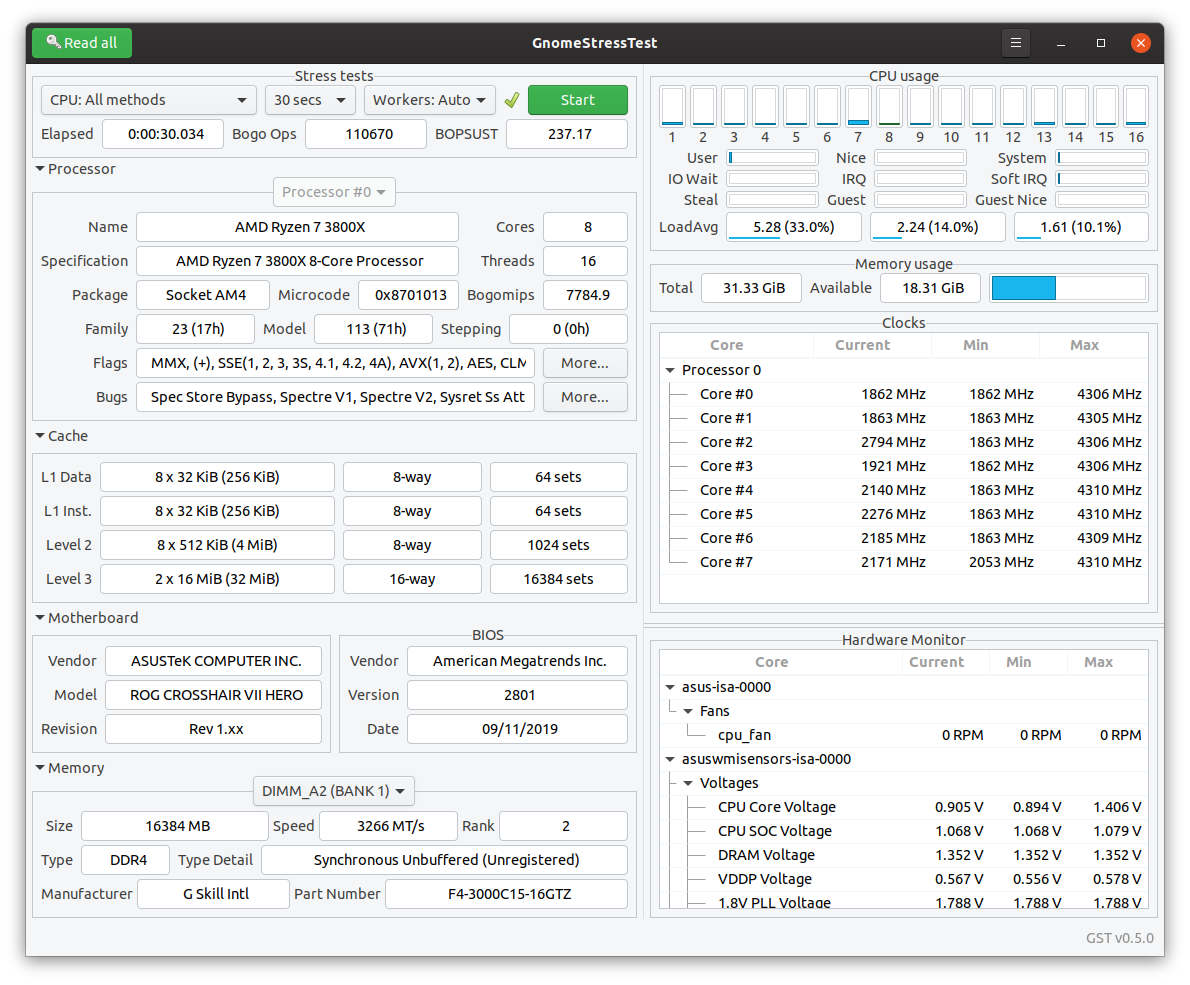
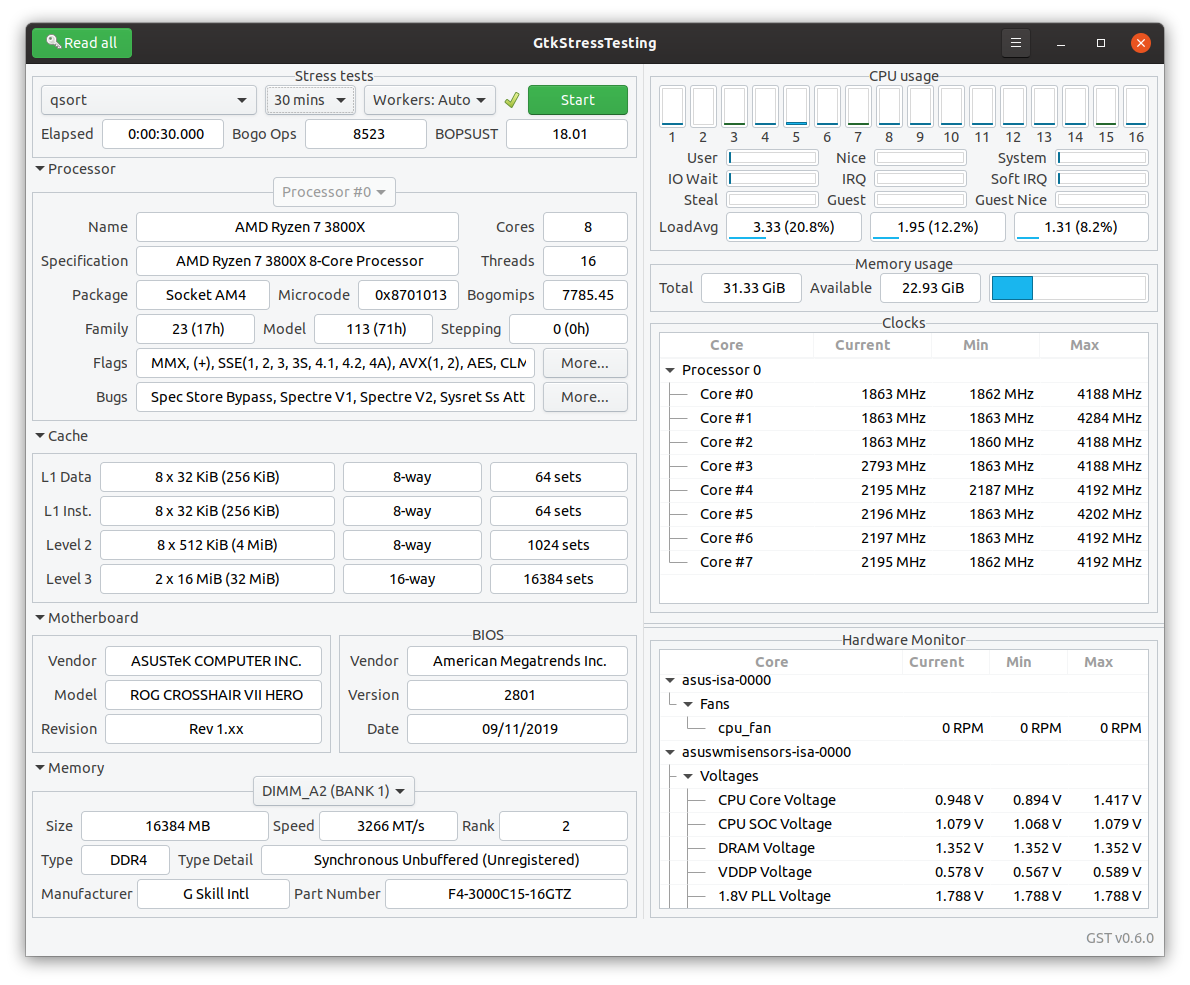
Name changed to GtkStressTesting

diff --git a/.gitlab/issue_templates/Bug.md b/.gitlab/issue_templates/Bug.md
@@ -6,7 +6,7 @@ Put an x inside the [] like this: [x] to mark the checkbox.
 -->
 ### Step 1: Are you in the right place?
 - [] I have verified there are no duplicate active or recent bugs, questions, or requests
-- [] I have verified that I am using the latest version of GnomeStressTest (GST)
+- [] I have verified that I am using the latest version of GtkStressTesting (GST)
 
 ### Step 2: Describe your environment
  - GST version: `?`

diff --git a/README.md b/README.md
@@ -1,4 +1,4 @@
-# GnomeStressTest (GST)
+# GtkStressTesting (GST)
 GST is a GTK system utility designed to stress and monitoring various hardware components like CPU and RAM.
 
 ## 💡 Features
